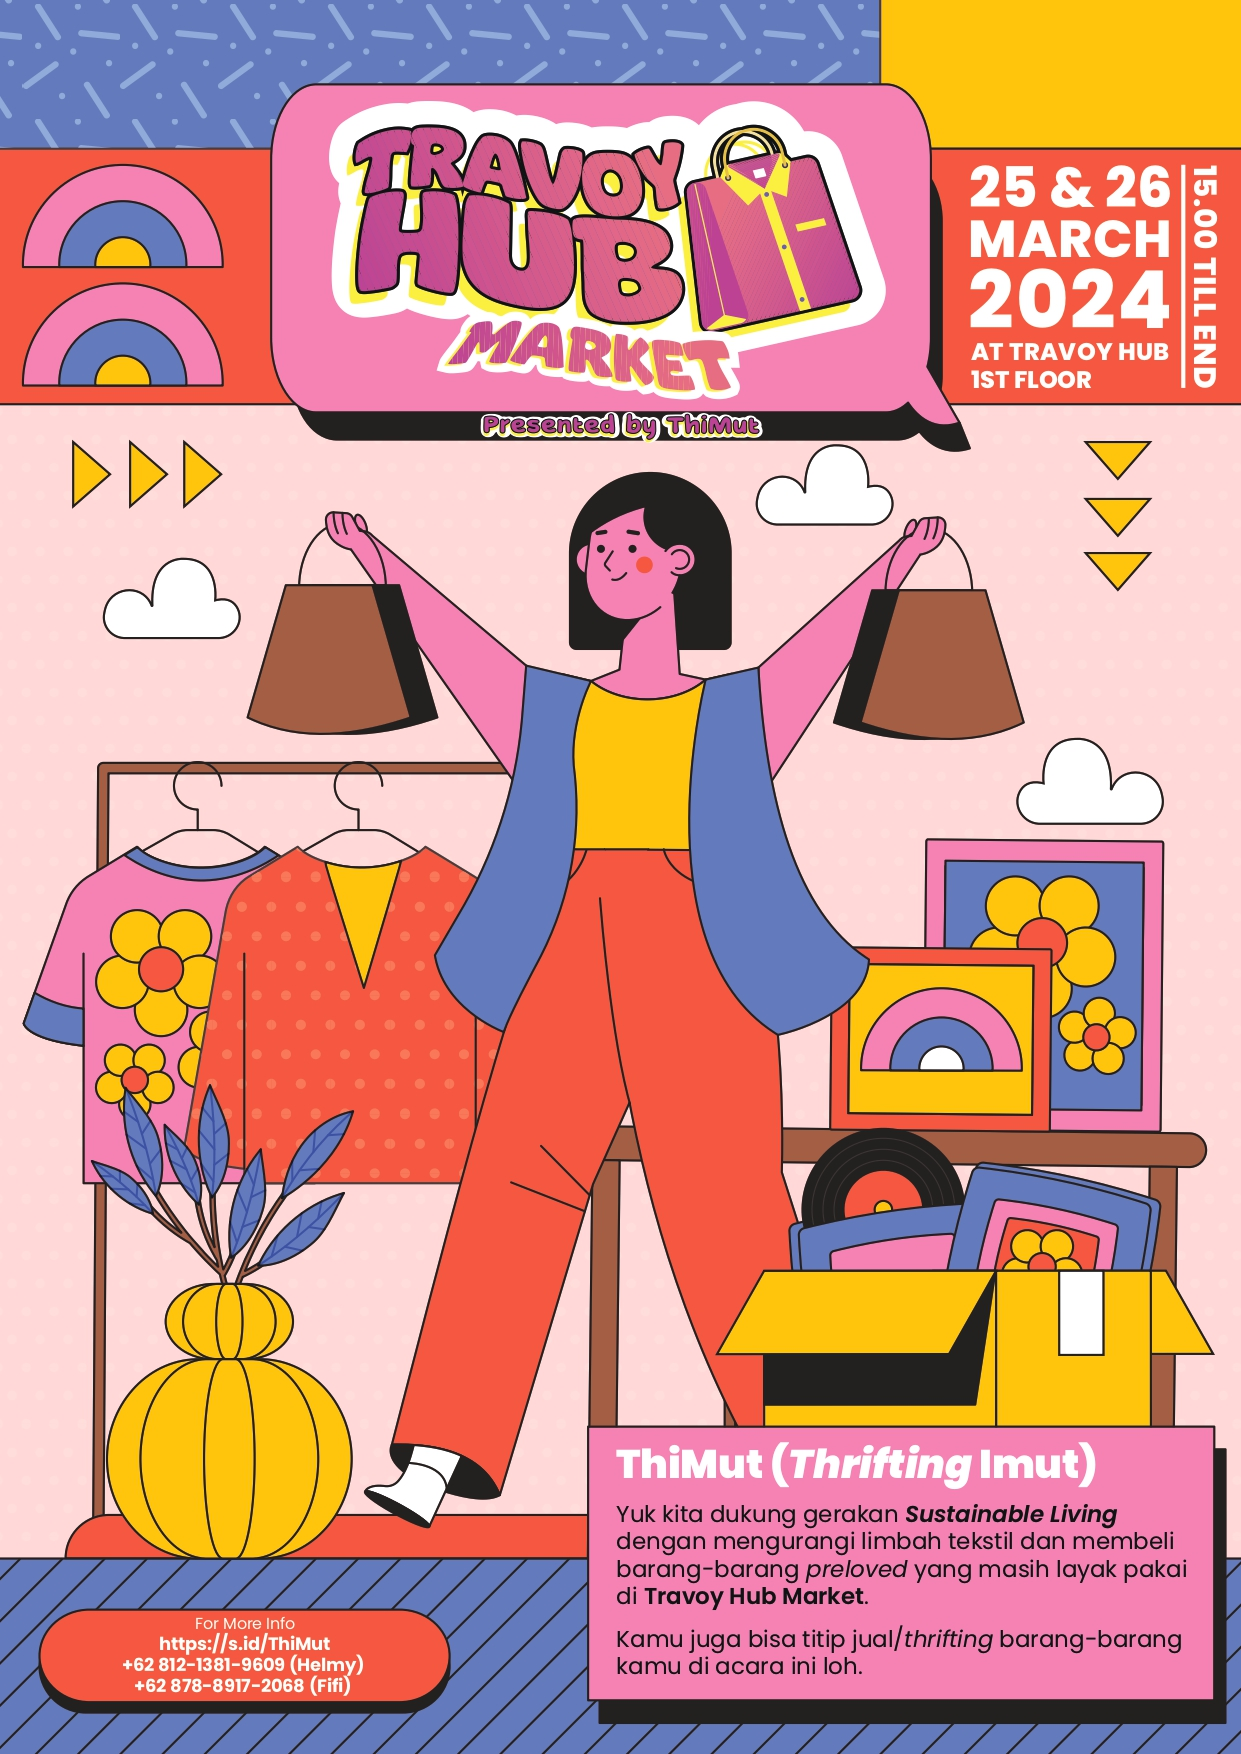
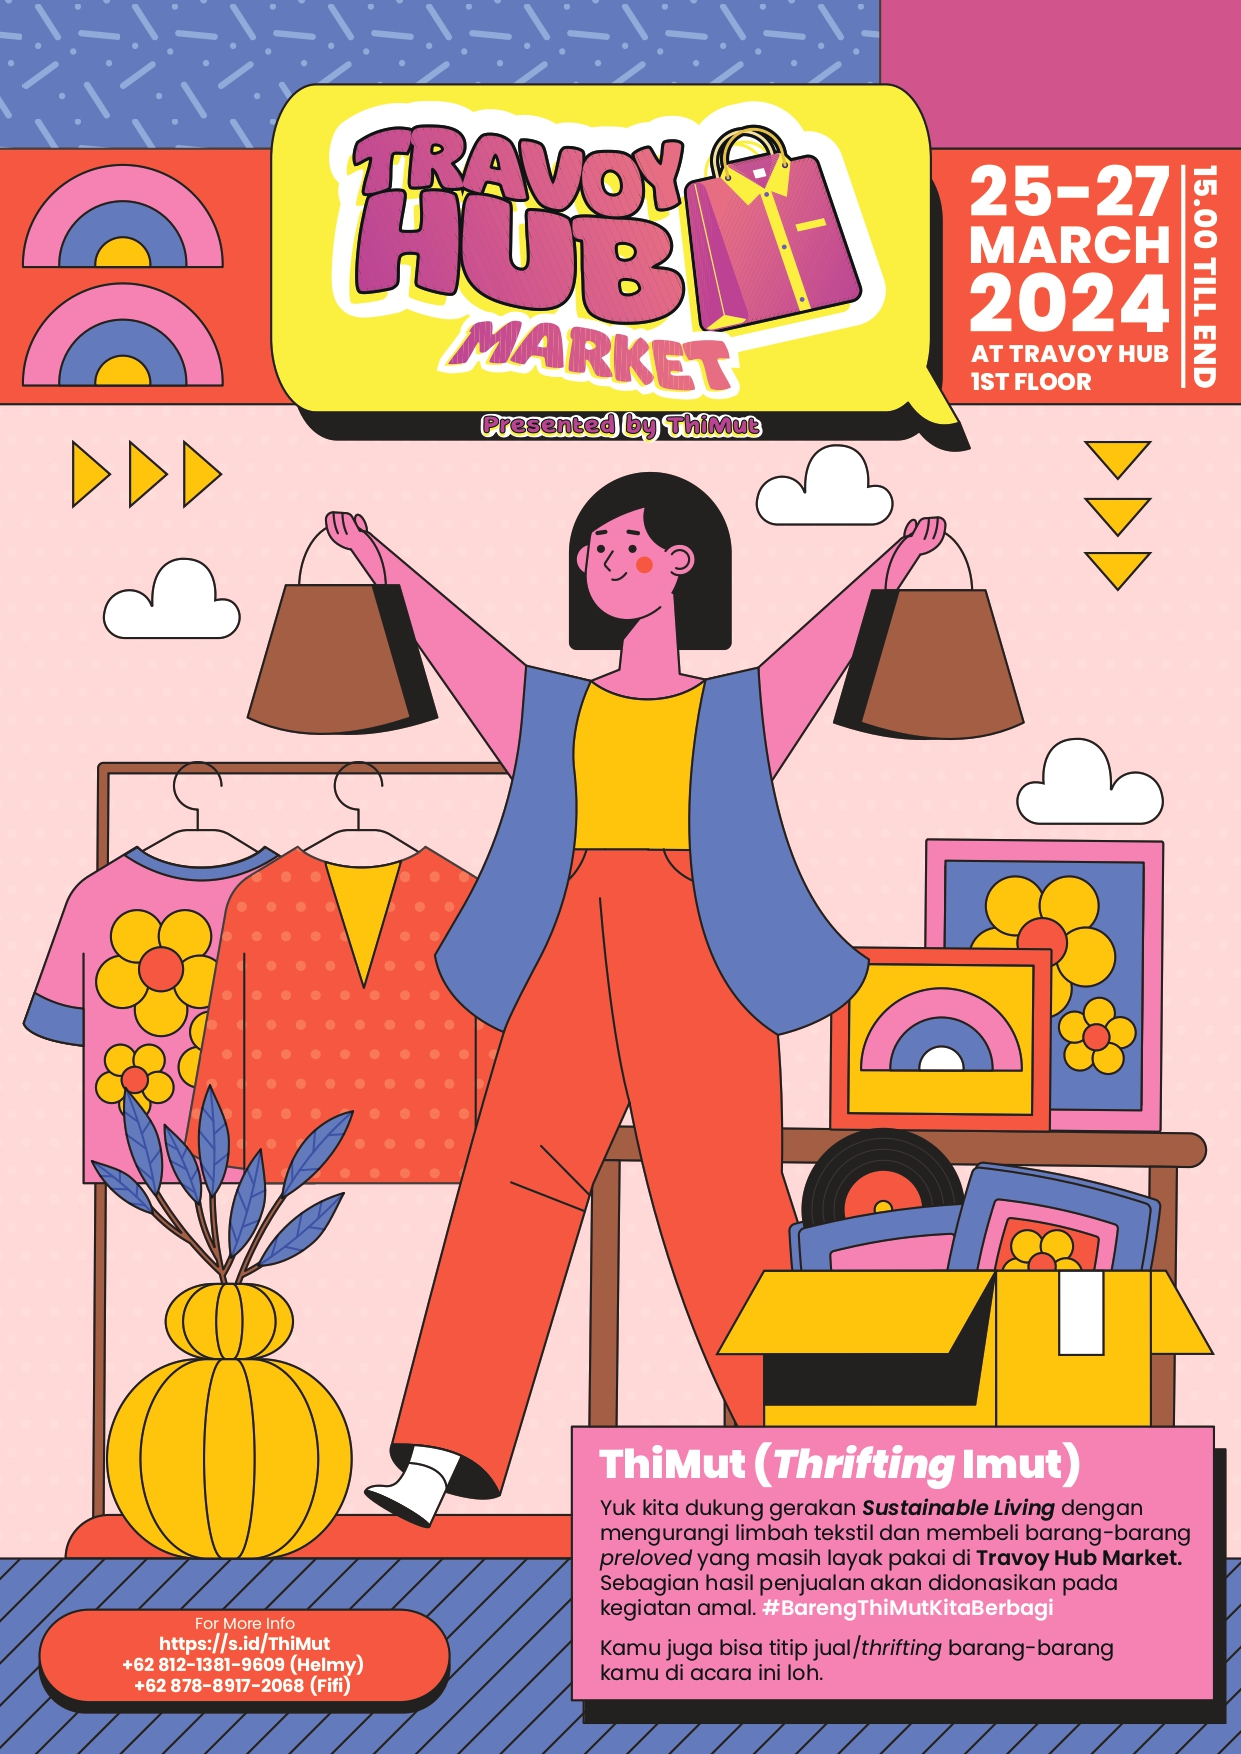
update content

Changed region(s): [[0.2143, 0.0, 1.0, 0.2463], [0.4593, 0.8005, 0.9492, 0.9852]]

diff --git a/index.html b/index.html
@@ -120,13 +120,11 @@
                                 <img src="./src/img/brand_nb_logo.png" width="120" height="80" alt="q" style="float:left">
                                 <img src="./src/img/brand_coach_logo.png" width="120" height="80" alt="w" style="float:left">
                                 <img src="./src/img/brand_adidas_logo.png" width="120" height="80" alt="x" style="float:left">
-                                <img src="./src/img/brand_nike_logo.png" width="120" height="80" alt="z" style="float:left">
+                                <!-- <img src="./src/img/brand_nike_logo.png" width="120" height="80" alt="z" style="float:left"> -->
                                 <img src="./src/img/brand_onitsuka_logo.png" width="120" height="80" alt="e" style="float:left">
-                                <img src="./src/img/brand_levis_logo.png" width="120" height="80" alt="y" style="float:left">
-                                <img src="./src/img/brand_vans_logo.png" width="120" height="40" alt="u" style="float:left">
                                 <img src="./src/img/brand_uniqlo_logo.png" width="120" height="40" alt="i" style="float:left">
                                 <img src="./src/img/brand_lacoste_logo.png" width="120" height="40" alt="o" style="float:left">
-                                <img src="./src/img/brand_zara_logo.png" width="120" height="40" alt="p" style="float:left">
+                                <!-- <img src="./src/img/brand_zara_logo.png" width="120" height="40" alt="p" style="float:left"> -->
                                 <img src="./src/img/brand_bape_logo.png" width="120" height="40" alt="a" style="float:left">
                                 <img src="./src/img/brand_asics_logo.png" width="120" height="40" alt="s" style="float:left">
                                 <img src="./src/img/brand_guess_logo.png" width="120" height="40" alt="d" style="float:left">
@@ -135,6 +133,9 @@
                                 <img src="./src/img/brand_hermes_logo.png" width="120" height="80" alt="t" style="float:left">
                                 <img src="./src/img/brand_converse_logo.png" width="120" height="80" alt="b" style="float:left">
                                 <img src="./src/img/brand_dickies_logo.png" width="120" height="80" alt="n" style="float:left">
+                                <img src="./src/img/brand_levis_logo.png" width="120" height="80" alt="y" style="float:left">
+                                <img src="./src/img/brand_vans_logo.png" width="120" height="40" alt="u" style="float:left">
+                                
                                 
                             <!-- </marquee>                             -->
     
@@ -145,31 +146,30 @@
                     <h3 class="mb-4 text-2xl font-semibold text-dark dark:text-white lg:pt-10 lg:text-3xl">Bingung mau jual barang preloved Kamu? <br>Daftar disini!
                     </h3>
                     <p class="mb-6 text-base font-medium text-secondary lg:text-lg text-justify">
-                        Yuk kita dukung gerakan <strong>Sustainable Living</strong> dengan mengurangi limbah tekstil dan membeli barang-barang preloved yang masih layak pakai di Travoy Hub Market.
+                        Yuk kita dukung gerakan <a class="text-primary"><strong>Sustainable Living</strong></a> dengan mengurangi limbah tekstil dan membeli barang-barang preloved yang masih layak pakai di Travoy Hub Market.
                         <br>
                         Kamu juga bisa titip jual/thrifting barang-barang kamu di acara ini loh.</p>
                     <p class="mb-6 text-base font-medium text-secondary lg:text-lg text-justify">
                             Syarat dan Ketentuan Titip Jual:<br>
                             • Barang yang di preloved masih layak pakai*<br>
                             • Jenis barang preloved yaitu: Pakaian, Sepatu, Tas, Aksesoris, dll <br>
-                            • Pengumpulan barang paling lambat <strong>Rabu, 20 Maret 2024, 15.00 WIB</strong><br>
+                            • Pengumpulan barang paling lambat <a class="text-primary"><strong>Rabu, 20 Maret 2024, 15.00 WIB</strong></a><br>
                             • Pemilik barang agar membuat rekapan barang dan harga<br>
                             • Harga yang tertera adalah <strong>Harga Nett</strong><br>
-                            • <strong>15%</strong> dari hasil penjualan untuk Donasi/Kegiatan Amal<br>
+                            • Panitia berhak menentukan barang preloved layak jual atau tidak.<br>
                             
                     </p>
-                    <p class="mb-6 text-base font-medium text-secondary lg:text-lg text-justify">
-                        *Panitia berhak menentukan barang preloved layak jual atau tidak.
-                    </p>
+                    
                      <p class="mb-6 text-base font-medium text-secondary lg:text-lg text-justify">
                        
                         Lokasi pengumpulan barang: <br>
-                        Kantor Pusat PT JMRB<br>
+                        <strong>Kantor Pusat PT JMRB</strong><br>
                         Senin, 18 Maret 2024 - Rabu 20 Maret 2024<br>
                         Pukul 08.00 - 17.00 WIB<br>
                     </p>
                     <p class="mb-6 text-base font-medium text-secondary lg:text-lg text-right">
-                        <a href="https://forms.gle/xmpAh1cZSzs6vE4u9"
+                       <!-- <a>Informasi lebih lanjut klik tombol berikut  →   </a> -->
+                       <a href="https://forms.gle/xmpAh1cZSzs6vE4u9"
                         class="text-base font-semibold text-white bg-primary py-3 px-8 rounded-full hover:shadow-lg hover:opacity-80 transition duration-300 ease-in-out"
                         target="_blank">
                         <i>Daftar disini!</i>
@@ -188,7 +188,7 @@
             <div class="w-full px-4">
                 <div class="mx-auto mb-16 max-w-xl text-center">
                     <h4 class="mb-2 text-lg font-semibold text-primary">Event</h4>
-                    <h2 class="mb-4 text-3xl font-bold text-dark dark:text-white sm:text-4xl lg:text-5xl">Siapin uang THR Kamu!</h2>
+                    <h2 class="mb-4 text-3xl font-bold text-dark dark:text-white sm:text-4xl lg:text-5xl">Siapin Wishlist Belanja Kamu!</h2>
                     
                 </div>
             </div>
@@ -203,7 +203,7 @@
                     </div>
                 </div>
                 <div class="mb-12 p-4 md:w-1/2">  
-                    <h3 class="mt-5 mb-3 text-xl font-semibold text-dark dark:text-white">ThiMut #3 - 25 & 26 Maret 2024</h3>
+                    <h3 class="mt-5 mb-3 text-xl font-semibold text-dark dark:text-white">ThiMut #3, 25 - 27 Maret 2024</h3>
                     <p class="text-base font-medium text-secondary text-justify">
                         Lokasinya di Lantai 1, Travoy Hub (LRT Taman Mini) atau Kamu bisa klik <a href="https://maps.app.goo.gl/fsMbMRZwDGbprSvP9" target="_blank" class="font-bold text-primary">disini</a> untuk menuju ke Lokasi.
                         <br><br><!-- <br><br>
@@ -221,7 +221,7 @@
                         </div>
                         <p class="text-base font-medium text-secondary text-justify">
                             "Thrifting mengurangi pembuangan sampah dengan menjual barang bekas yang masih layak pakai, dan mendukung keberlanjutan dengan mengurangi dampak lingkungan dari produksi pakaian baru serta berkontribusi untuk kegiatan amal dan donasi."
-                            <br><a class="font-bold text-primary">#LewatThiMutKitaBerbagi</a><br>
+                            <br><a class="font-bold text-primary">#BarengThiMutKitaBerbagi</a><br>
                                        
                         </p>
                     </div>
@@ -242,7 +242,7 @@
             <div class="w-full px-4">
                 <div class="mx-auto mb-16 max-w-xl text-center">
                     <h4 class="mb-2 text-lg font-semibold text-primary">Donasi</h4>
-                    <h2 class="mb-4 text-3xl font-bold text-dark dark:text-white sm:text-4xl lg:text-5xl">Lewat ThiMut kita berbagi</h2>
+                    <h2 class="mb-4 text-3xl font-bold text-dark dark:text-white sm:text-4xl lg:text-5xl">Bareng ThiMut Kita Berbagi</h2>
                     
                 </div>
             </div>
@@ -250,11 +250,19 @@
             <div class="flex w-full flex-wrap justify-center px-4 xl:mx-auto xl:w-10/12">
                 <div class="mb-12 p-4 md:w-1/2">
                     <div class="overflow-hidden rounded-md shadow-md">
-                        <img src="./src/img/donasi1.jpeg" alt="donasi1" width="w-full" />
+                        <img src="./src/img/donasi1.jpg" alt="donasi1" width="w-full" />
                     </div>
-                    <h3 class="mt-5 mb-3 text-xl font-semibold text-dark dark:text-white">Bandung, 3 Maret 2024, <br>Pemberian Bantuan untuk Acara Sunatan Masal
-                    </h3>
-                    <!-- <p class="text-base font-medium text-secondary text-justify">Donasi adalah tindakan memberikan sesuatu, baik berupa uang, barang, jasa, bahkan bisa waktu, kepada individu, kelompok, atau organisasi yang membutuhkan dukungan. Tindakan ini seringkali dilakukan sebagai bentuk kepedulian terhadap berbagai masalah sosial, ekonomi, dan kemanusiaan yang ada di dunia ini.</p> -->
+                    <h3 class="mt-5 text-s font-semibold text-dark dark:text-white"><a class="text-primary">Bandung, 3 Maret 2024</a></h3>
+                    <h3 class="mb-3 text-xl font-semibold text-dark dark:text-white">Pemberian Bantuan pada Acara Khitanan Massal</h3>
+                    <p class="text-base font-medium text-secondary text-justify">Pemberian bantuan pada acara khitanan massal diharapkan dapat memberikan kegembiraan serta meningkatkan aksesibilitas bagi anak-anak yang membutuhkan.</p>
+                </div>
+                <div class="mb-12 p-4 md:w-1/2">
+                    <div class="overflow-hidden rounded-md shadow-md">
+                        <img src="./src/img/donasi2.jpg" alt="donasi2" width="w-full" />
+                    </div>
+                    <h3 class="mt-5 text-s font-semibold text-dark dark:text-white"><a class="text-primary">Jakarta, 15 Maret 2024</a></h3>
+                    <h3 class="mb-3 text-xl font-semibold text-dark dark:text-white">Pembagian Takjil & Buka Puasa di Travoy Hub</h3>
+                    <p class="text-base font-medium text-secondary text-justify">Pembagian takjil & buka puasa pada bulan suci ramadhan diharapkan dapat menyebarkan berkah serta memberikan kelegaan kepada mereka yang berpuasa.</p>
                 </div>
                 
             </div>
